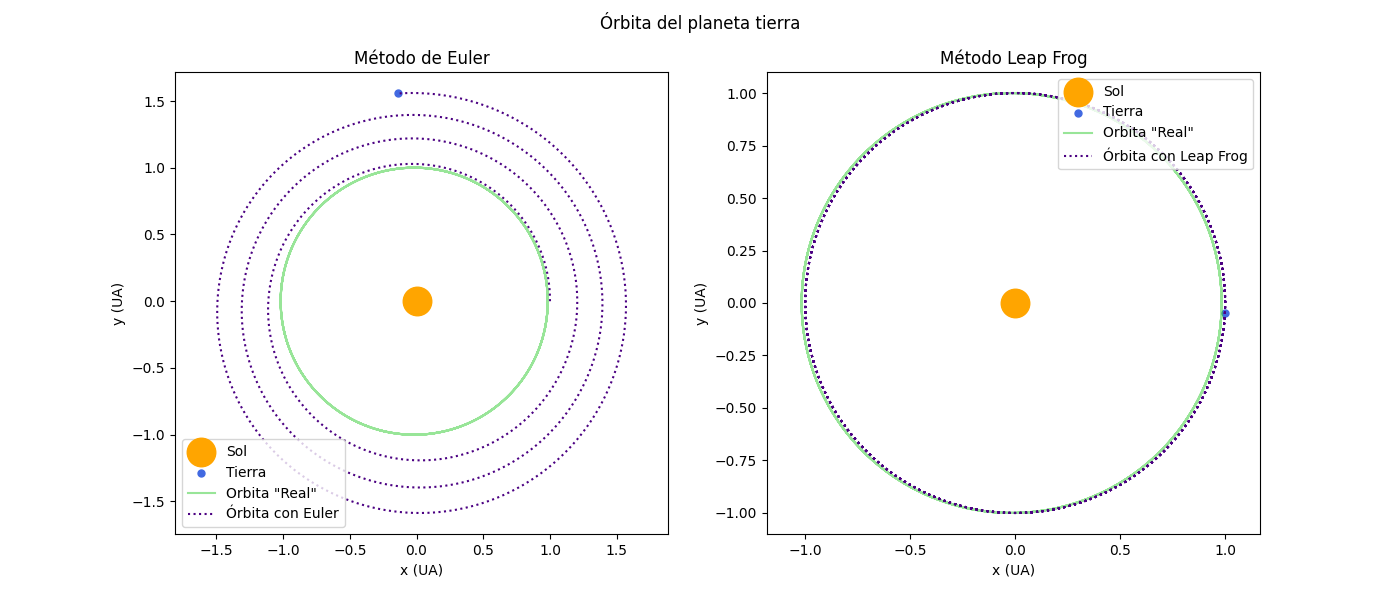
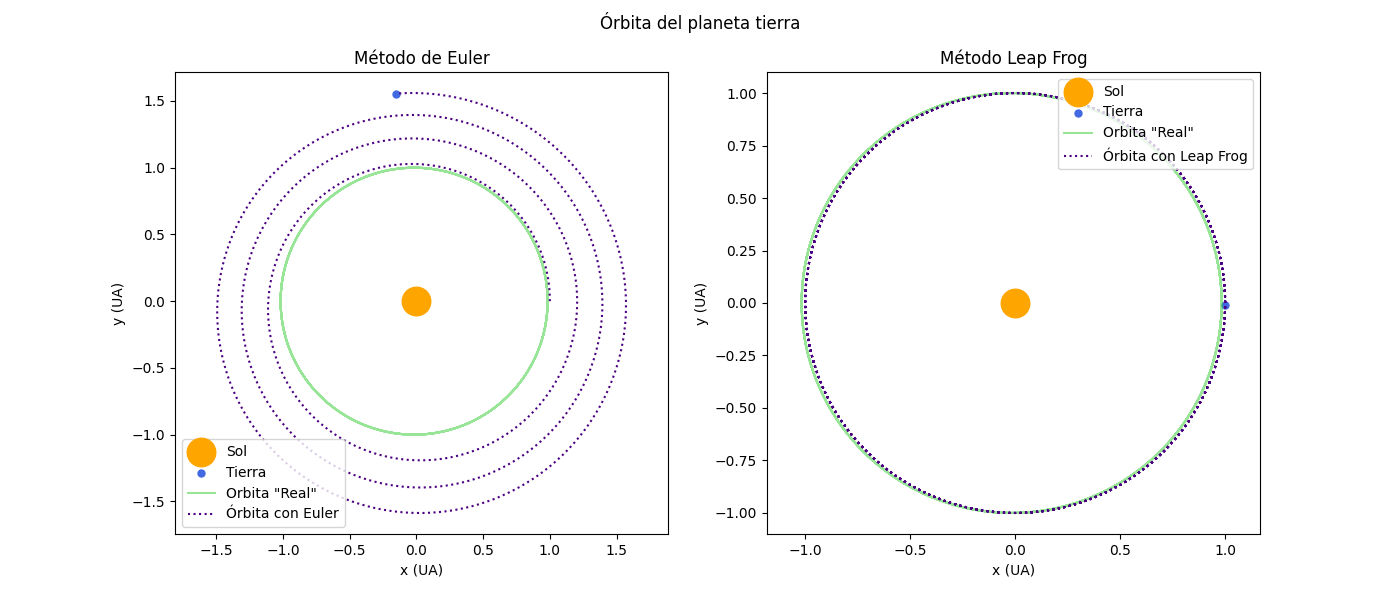
Minor fixes

diff --git a/S6/S6CASA/ParraCristian_S6CASA_ODE2_PLANETAS.cpp b/S6/S6CASA/ParraCristian_S6CASA_ODE2_PLANETAS.cpp
@@ -2,8 +2,7 @@
 #include <iostream>
 #include <array>
 #include <cmath>
-#include <string>
-// Aún tiene errores aaaa.
+
 double Orbita_U(double uu, double ww, double GG, double M0=1){
     // uu: Las coordenadas en donde se calcula la dirección, es decir,
     // si es la coordenada x entonces es en dirección del vector unitario i.
@@ -49,7 +48,7 @@ int main(){
     double Mt =  5.9742e24/M;       // kg | Masa de la tierra
     double AU = 1.49597870700e11;   // m  | Unidades Astronómicas (=1)
     double year = 31557600;         //s   | Años (=1)
-    double G = 6.67e-11;            // m^3 kg^-1 s^-2 | Constante de gravitación
+    double G = 6.67430e-11;            // m^3 kg^-1 s^-2 | Constante de gravitación
     double G_0 = G*M*(1/std::pow(AU,3))*(year*year); // UA^3 M0 year^-2
 
     // Condiciones de paso y cantidad de pasos
@@ -72,11 +71,11 @@ int main(){
     // Caso 2 | Sol en movimiento:
     // Usaré el factor de escala M/Mtotal sobre los arrays anteriores
 
-    // Datos observacionales:
-    std::array<double, N> x_obs;
-    std::array<double, N> y_obs;
-    std::array<double, N> vx_obs;
-    std::array<double, N> vy_obs;
+    // Datos órbita elíptica:
+    std::array<double, N> x_elip;
+    std::array<double, N> y_elip;
+    std::array<double, N> vx_elip;
+    std::array<double, N> vy_elip;
 
     // Array del tiempo
     std::array<double, N> t;
@@ -93,11 +92,11 @@ int main(){
 
     // Caso 2:
     // Factores de escala que multiplican la posición y la velocidad
-    double fe_T = 1.0/(1.0 + Mt);    // Factor de escala para la tierra
+    double fe_T = 1.0/(1.0 + Mt);     // Factor de escala para la tierra
     double fe_S = -Mt/(1.0 + Mt);     // Factor de escala para el sol
 
-    // Comparación órbita real:
-    double excentricidad = 0.01671022;      // Dato de Nasa Planetary Factsheet
+    // Comparación órbita real (elíptica):
+    double excentricidad = 0.01671022;          // Dato de Nasa Planetary Factsheet
     double perihelio = 1.0*(1.0-excentricidad); // Suponiendo que se situa en el eje x
     double vel_peri = 2.0*M_PI*std::sqrt((1.0+excentricidad)/(1.0-excentricidad)); // Velocidad inicial
 
@@ -113,11 +112,11 @@ int main(){
     vx_LF[0] = vx0 + h * Orbita_U(x0, y0, G_0)/2.0;
     vy_LF[0] = vy0 + h * Orbita_U(y0, x0, G_0)/2.0;
 
-    // Datos observacionales:
-    x_obs[0] = perihelio;
-    y_obs[0] = y0;
-    vx_obs[0] = vx0 + h * Orbita_U(perihelio, y0, G_0)/2.0;
-    vy_obs[0] = vel_peri + h * Orbita_U(y0, perihelio, G_0)/2.0;
+    // Datos órbita elíṕtica:
+    x_elip[0] = perihelio;
+    y_elip[0] = y0;
+    vx_elip[0] = vx0 + h * Orbita_U(perihelio, y0, G_0)/2.0;
+    vy_elip[0] = vel_peri + h * Orbita_U(y0, perihelio, G_0)/2.0;
     
     
     // Escritura de los arrays
@@ -141,12 +140,12 @@ int main(){
         // Aplico los factores de escala sobre los valores anteriores
         // en la escritura de "Planetas.dat" 
 
-        // Datos observacionales:
-        x_obs[i+1] = Leap_Frog_U(x_obs[i], vx_obs[i], h);
-        y_obs[i+1] = Leap_Frog_U(y_obs[i], vy_obs[i], h);
+        // Datos ŕbita elíptica:
+        x_elip[i+1] = Leap_Frog_U(x_elip[i], vx_elip[i], h);
+        y_elip[i+1] = Leap_Frog_U(y_elip[i], vy_elip[i], h);
 
-        vx_obs[i+1] = Leap_Frog_V(x_obs[i+1], y_obs[i+1], vx_obs[i], G_0, h);
-        vy_obs[i+1] = Leap_Frog_V(y_obs[i+1], x_obs[i+1], vy_obs[i], G_0, h);
+        vx_elip[i+1] = Leap_Frog_V(x_elip[i+1], y_elip[i+1], vx_elip[i], G_0, h);
+        vy_elip[i+1] = Leap_Frog_V(y_elip[i+1], x_elip[i+1], vy_elip[i], G_0, h);
         }
 
     // Se guardan los archivos en Planetas.dat
@@ -154,7 +153,7 @@ int main(){
     // Caso 1 | tiempo , Euler x, Euler y, LeapFrog x, LeapFrog y.
     // Caso 2 | Euler x sol, Euler y sol, Euler x tierra, Euler y tierra
     // Leapfrog x sol, Leapfrog y sol, Leapfrog x tierra, Leapfrog y tierra.
-    // Observacionales | x observacional, y observacional.
+    // Órbita elíptica | x elíptica, y elíptica.
 
     std::ofstream outfile;
     outfile.open("Planetas.dat");
@@ -168,7 +167,7 @@ int main(){
     << fe_T*x_Euler[p] << " , " << fe_T*y_Euler[p] << " , "
     << fe_S*x_LF[p] << " , " << fe_S*y_LF[p]<< " , "
     << fe_T*x_LF[p] << " , " << fe_T*y_LF[p]<< " , "
-    << x_obs[p] << " , " << y_obs[p]<< "\n";
+    << x_elip[p] << " , " << y_elip[p]<< "\n";
     }
 
     outfile.close();

diff --git a/S6/S6CASA/PLOTS_CristianParra_S6CASA_ODE2_PLANETAS.py b/S6/S6CASA/PLOTS_CristianParra_S6CASA_ODE2_PLANETAS.py
@@ -21,8 +21,8 @@ Sol_x_LeapFrog = Datos[:,9]
 Sol_y_LeapFrog = Datos[:,10]
 Tierra_x_LeapFrog = Datos[:,11]
 Tierra_y_LeapFrog = Datos[:,12]
-Observacional_x = Datos[:,13]
-Observacional_y = Datos[:,14]
+eliptica_x = Datos[:,13]
+eliptica_y = Datos[:,14]
 
 # Inicialización gráficas
 
@@ -33,7 +33,7 @@ fig2, (ax2, ax3) = plt.subplots(1,2,figsize=(14,6))
 # Gráfica de la órbita mediante el método de Euler
 ax0.scatter(0, 0, s = 422, color = "orange", label = "Sol")
 ax0.scatter(x_Euler[-1], y_Euler[-1], s = 25, color = "royalblue", label = "Tierra")
-ax0.plot(Observacional_x, Observacional_y, label = 'Orbita "Real"', color = "limegreen", alpha=0.5)
+ax0.plot(eliptica_x, eliptica_y, label = 'Orbita "Real"', color = "limegreen", alpha=0.5)
 ax0.plot(x_Euler, y_Euler, label="Órbita con Euler", ls = ":", color = "indigo")
 ax0.axis("equal")
 ax0.set_xlabel("x (UA)")
@@ -44,7 +44,7 @@ ax0.legend(loc='lower left')
 # Gráfica de la órbita mediante el método de Leap Frog
 ax1.scatter(0, 0, s = 422, color = "orange", label = "Sol")
 ax1.scatter(x_LeapFrog[-1], y_LeapFrog[-1], s = 25, color = "royalblue", label = "Tierra")
-ax1.plot(Observacional_x, Observacional_y, label = 'Orbita "Real"', color = "limegreen", alpha=0.5)
+ax1.plot(eliptica_x, eliptica_y, label = 'Orbita "Real"', color = "limegreen", alpha=0.5)
 ax1.plot(x_LeapFrog, y_LeapFrog, label="Órbita con Leap Frog", ls = ":", color = "indigo")
 ax1.axis("equal")
 ax1.set_xlabel("x (UA)")
@@ -58,7 +58,7 @@ fig1.savefig("PLOTS_CristianParra_S6CASA_ODE2_Planetas_Tierra.png")
 # Gráfica de las órbitas mediante el método de Euler
 ax2.scatter(Sol_x_Euler[-1], Sol_y_Euler[-1], s = 422, color = "orange", label = "Sol")
 ax2.scatter(Tierra_x_Euler[-1], Tierra_y_Euler[-1], s = 25, color = "royalblue", label = "Tierra")
-ax2.plot(Observacional_x, Observacional_y, label = 'Orbita "Real" de la tierra', color = "limegreen", alpha=0.5)
+ax2.plot(eliptica_x, eliptica_y, label = 'Orbita "Real" de la tierra', color = "limegreen", alpha=0.5)
 ax2.plot(Sol_x_Euler, Sol_y_Euler, label="Órbita solar con Euler", color = "crimson")
 ax2.plot(Tierra_x_Euler, Tierra_y_Euler, label="Órbita de la tierra con Euler", ls = ":", color = "darkgreen")
 ax2.axis("equal")
@@ -70,7 +70,7 @@ ax2.legend(loc = 'lower left')
 # Gráfica de las órbitas mediante el método de Leap Frog
 ax3.scatter(Sol_x_LeapFrog[-1], Sol_y_LeapFrog[-1], s = 422, color = "orange", label = "Sol")
 ax3.scatter(Tierra_x_LeapFrog[-1], Tierra_y_LeapFrog[-1], s = 25, color = "royalblue", label = "Tierra")
-ax3.plot(Observacional_x, Observacional_y, label = 'Orbita "Real" de la tierra', color = "limegreen", alpha=0.5)
+ax3.plot(eliptica_x, eliptica_y, label = 'Orbita "Real" de la tierra', color = "limegreen", alpha=0.5)
 ax3.plot(Sol_x_LeapFrog, Sol_y_LeapFrog, label="Órbita solar con Leap Frog", color = "crimson")
 ax3.plot(Tierra_x_LeapFrog, Tierra_y_LeapFrog, label="Órbita de la tierra con Leap Frog", ls = ":", color = "darkgreen")
 ax3.axis("equal")
